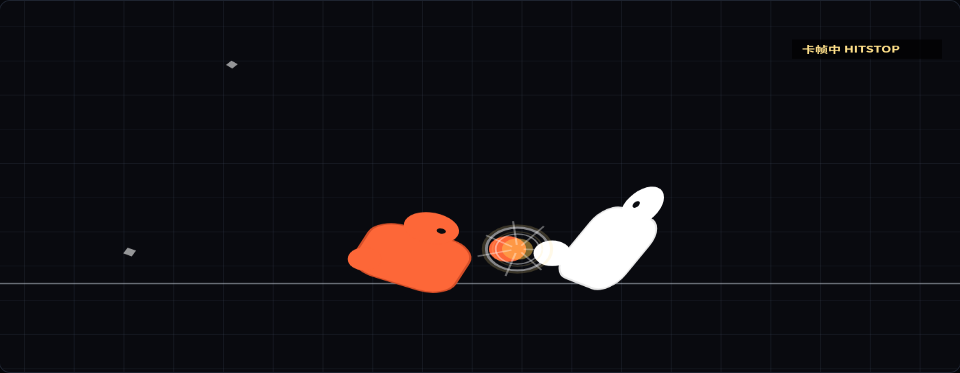
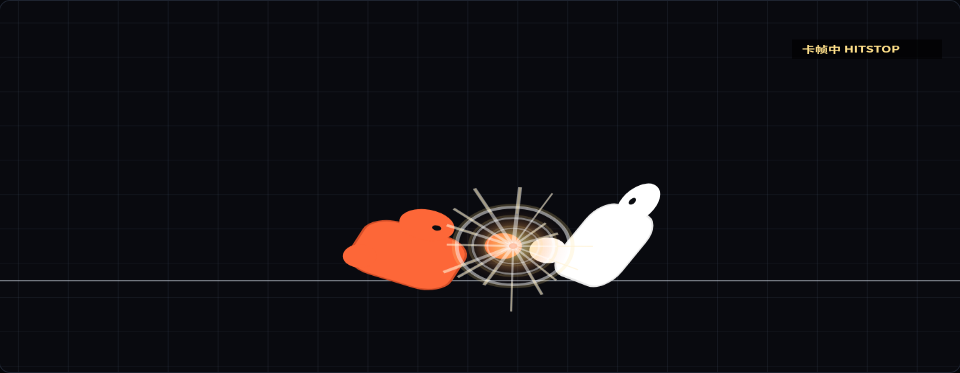
Boost hit FX to match article final intensity
Larger core bloom, triple rings, denser rays/squares, camera punch on impact.

diff --git a/public/index.html b/public/index.html
@@ -197,33 +197,36 @@ function resetFight() {
 function spawnHitFX(x, y, scale, lifeFrames) {
   if (!fxOn || variant === "bare") return;
   const life = Math.max(4, Math.round(lifeFrames * SHOW.fxLifeScale));
-  // core flash
-  fx.push({ t: "core", x, y, life, max: life, r: 18 * scale });
-  // rings
-  fx.push({ t: "ring", x, y, life, max: life, maxR: 70 * scale, w: 3.5 });
-  fx.push({ t: "ring", x, y, life: Math.round(life * 0.85), max: Math.round(life * 0.85), maxR: 42 * scale, w: 2.2 });
+  // bright core + secondary bloom (原文终版大白黄闪光)
+  fx.push({ t: "core", x, y, life, max: life, r: 34 * scale });
+  fx.push({ t: "core", x, y, life: Math.round(life * 0.55), max: Math.round(life * 0.55), r: 58 * scale });
+  // rings — outer big + inner tight
+  fx.push({ t: "ring", x, y, life, max: life, maxR: 110 * scale, w: 4.5 });
+  fx.push({ t: "ring", x, y, life: Math.round(life * 0.9), max: Math.round(life * 0.9), maxR: 68 * scale, w: 3.2 });
+  fx.push({ t: "ring", x, y, life: Math.round(life * 0.7), max: Math.round(life * 0.7), maxR: 36 * scale, w: 2.4 });
   // square particles
-  const n = Math.round(10 * scale);
+  const n = Math.round(16 * scale);
   for (let i = 0; i < n; i++) {
-    const a = -Math.PI * 0.15 + Math.random() * Math.PI * 1.3 + (Math.random() < 0.5 ? 0 : Math.PI);
-    const sp = (180 + Math.random() * 280) * scale;
+    const a = Math.random() * Math.PI * 2;
+    const sp = (220 + Math.random() * 360) * scale;
     fx.push({
       t: "sq", x, y,
-      vx: Math.cos(a) * sp, vy: Math.sin(a) * sp - 40,
+      vx: Math.cos(a) * sp, vy: Math.sin(a) * sp - 60,
       life: life, max: life,
-      s: 5 + Math.random() * 7 * scale,
-      rot: Math.random() * Math.PI, vr: (Math.random() - 0.5) * 0.4,
-      warm: Math.random() < 0.35
+      s: 6 + Math.random() * 10 * scale,
+      rot: Math.random() * Math.PI, vr: (Math.random() - 0.5) * 0.55,
+      warm: Math.random() < 0.45
     });
   }
-  // radial shards / star lines
-  const rays = Math.round(7 * scale);
+  // radial shards / star lines — denser, longer (终版放射感)
+  const rays = Math.round(14 * scale);
   for (let i = 0; i < rays; i++) {
-    const a = (i / rays) * Math.PI * 2 + Math.random() * 0.2;
+    const a = (i / rays) * Math.PI * 2 + (Math.random() - 0.5) * 0.25;
     fx.push({
       t: "ray", x, y, a,
-      life: Math.round(life * 0.7), max: Math.round(life * 0.7),
-      len: (28 + Math.random() * 36) * scale
+      life: Math.round(life * 0.85), max: Math.round(life * 0.85),
+      len: (48 + Math.random() * 56) * scale,
+      w: 1.8 + Math.random() * 2.2
     });
   }
 }
@@ -404,9 +407,10 @@ function updateShow() {
       const hx = atk.x + atk.facing * (atk.handFront.x);
       const hy = atk.y + atk.handFront.y;
       if (full) {
-        spawnHitFX(hx, hy, 1, SHOW.hitstopEnd - SHOW.strikeEnd);
-        cam.shake = 9;
-        cam.targetZoom = 1.07;
+        spawnHitFX(hx, hy, 1.15, SHOW.hitstopEnd - SHOW.strikeEnd);
+        cam.shake = 10;
+        cam.targetZoom = 1.08;
+        cam.push = atk.facing * 14;
         cam.push = 14;
         vic.flash = 5;
         sfxHit(true);
@@ -750,9 +754,13 @@ function drawFX() {
   for (const p of fx) {
     const k = Math.max(0, p.life / p.max);
     if (p.t === "core") {
-      ctx.globalAlpha = k * 0.85;
-      ctx.fillStyle = COL.fxCore;
-      ctx.beginPath(); ctx.arc(p.x, p.y, p.r * (0.6 + 0.4 * k), 0, Math.PI * 2); ctx.fill();
+      const grd = ctx.createRadialGradient(p.x, p.y, 0, p.x, p.y, p.r * (0.7 + 0.5 * k));
+      grd.addColorStop(0, `rgba(255,255,255,${0.95 * k})`);
+      grd.addColorStop(0.35, `rgba(255,220,120,${0.75 * k})`);
+      grd.addColorStop(1, `rgba(253,103,56,0)`);
+      ctx.globalAlpha = 1;
+      ctx.fillStyle = grd;
+      ctx.beginPath(); ctx.arc(p.x, p.y, p.r * (0.7 + 0.5 * k), 0, Math.PI * 2); ctx.fill();
     } else if (p.t === "ring") {
       const r = (1 - k) * p.maxR;
       ctx.globalAlpha = k * 0.9;
@@ -772,12 +780,20 @@ function drawFX() {
       ctx.fillRect(-p.s / 2, -p.s / 2, p.s, p.s);
       ctx.restore();
     } else if (p.t === "ray") {
-      ctx.globalAlpha = k * 0.95;
+      ctx.globalAlpha = k * 0.98;
       ctx.strokeStyle = COL.fx;
-      ctx.lineWidth = 2;
-      const len = p.len * (0.5 + 0.5 * k);
+      ctx.lineWidth = p.w || 2.5;
+      const len = p.len * (0.55 + 0.45 * k);
       ctx.beginPath();
-      ctx.moveTo(p.x + Math.cos(p.a) * 6, p.y + Math.sin(p.a) * 6);
+      ctx.moveTo(p.x + Math.cos(p.a) * 4, p.y + Math.sin(p.a) * 4);
+      ctx.lineTo(p.x + Math.cos(p.a) * len, p.y + Math.sin(p.a) * len);
+      ctx.stroke();
+      // warm tip
+      ctx.globalAlpha = k * 0.55;
+      ctx.strokeStyle = COL.fxWarm;
+      ctx.lineWidth = (p.w || 2.5) * 0.6;
+      ctx.beginPath();
+      ctx.moveTo(p.x + Math.cos(p.a) * len * 0.55, p.y + Math.sin(p.a) * len * 0.55);
       ctx.lineTo(p.x + Math.cos(p.a) * len, p.y + Math.sin(p.a) * len);
       ctx.stroke();
     }
